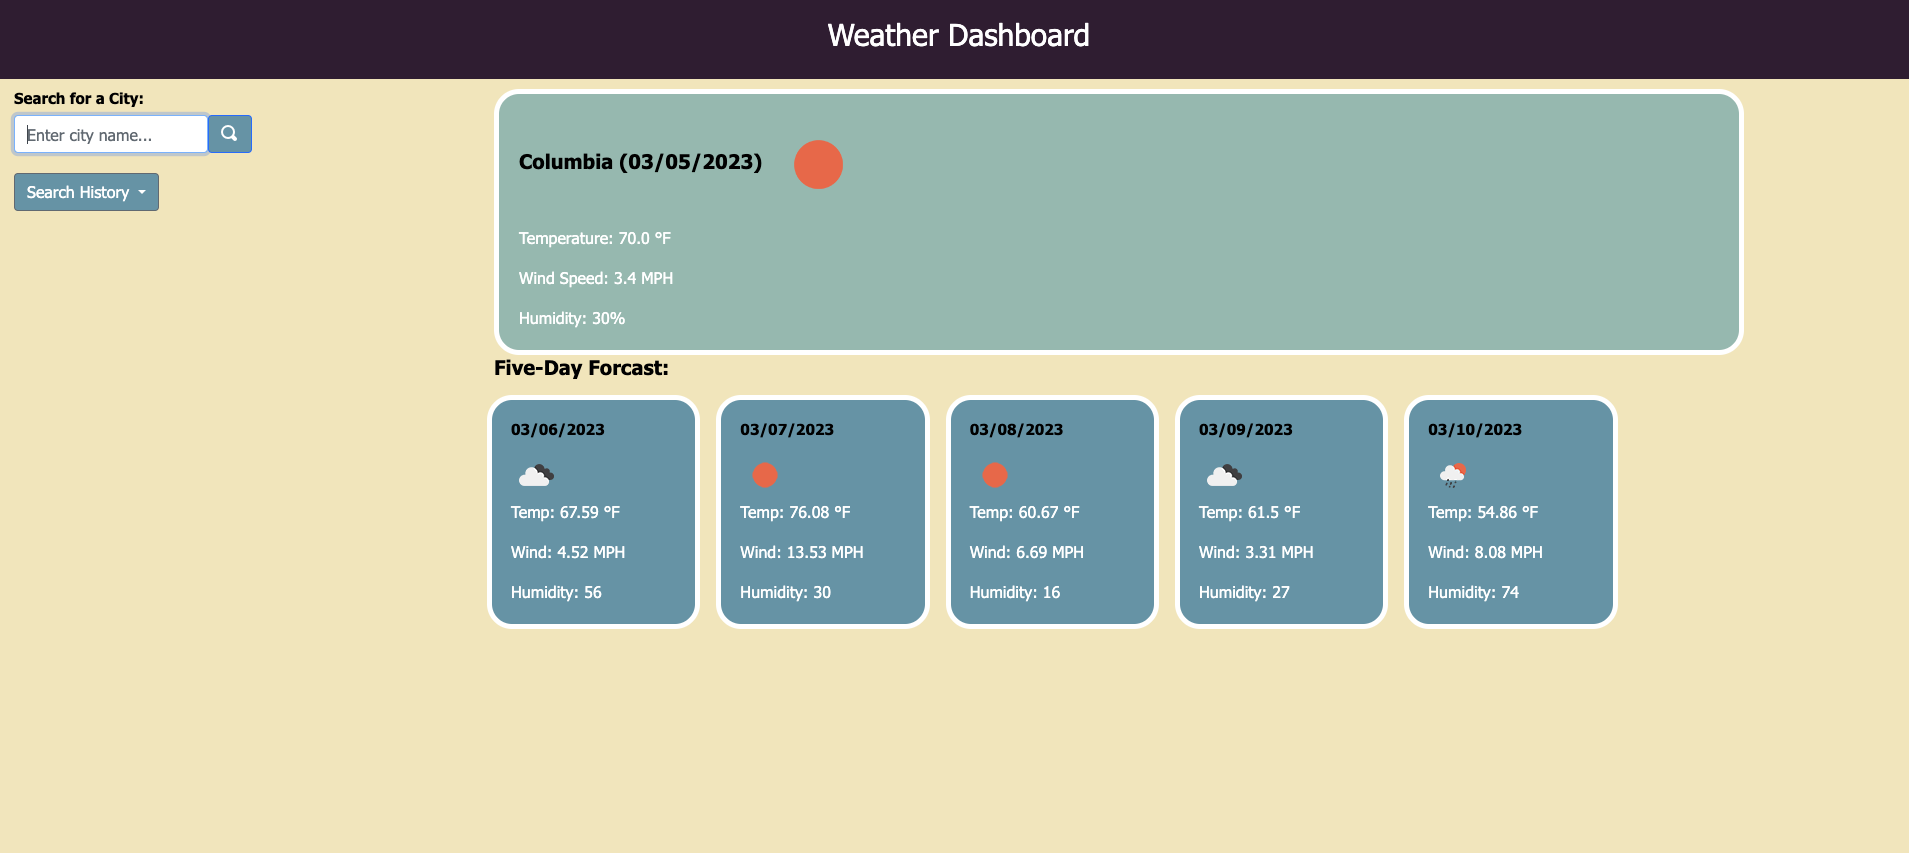
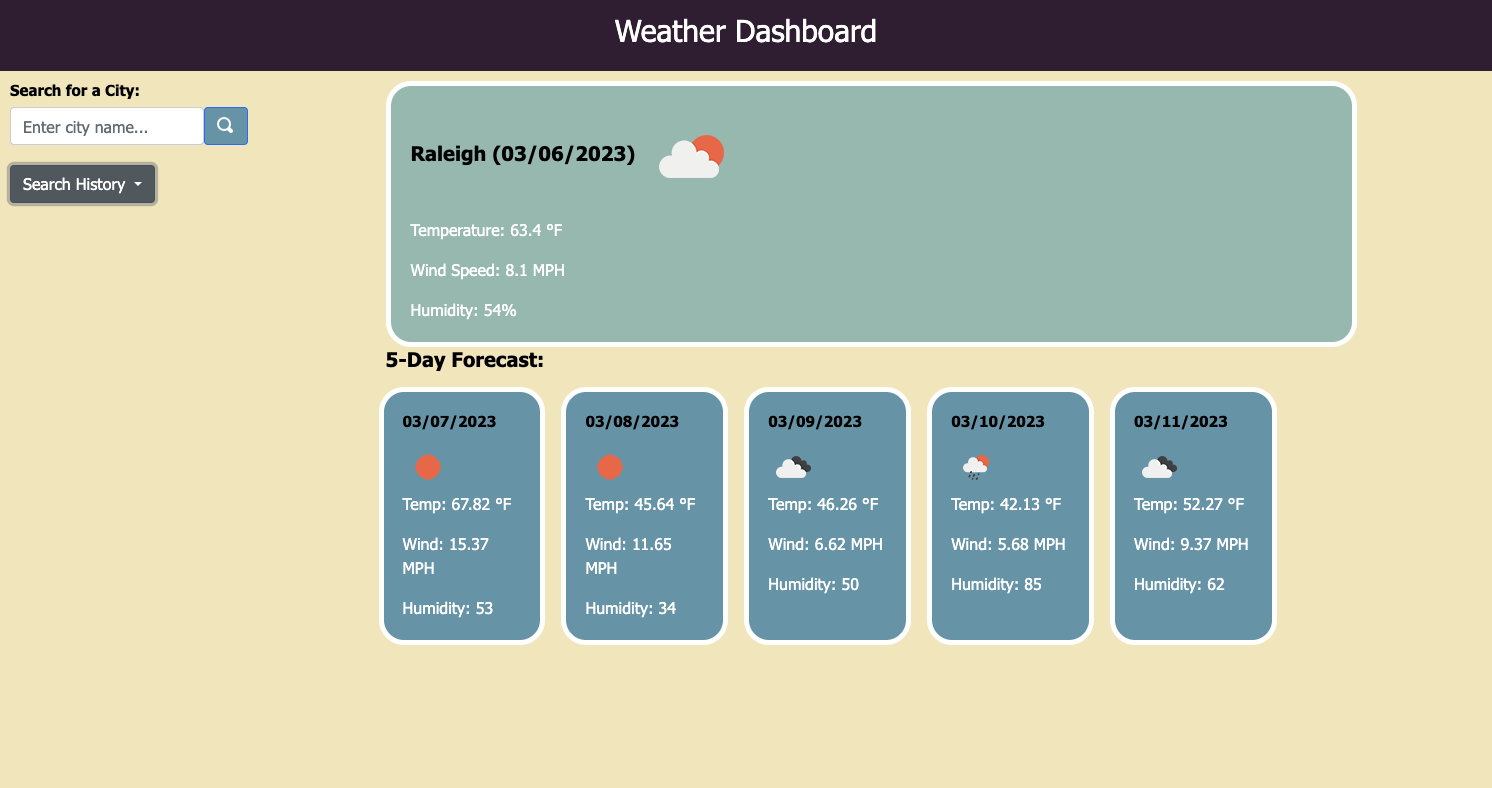
updated '5-day-forecast' h6 title in html; updated mock-up description in README with updated screenshot image for 5-day-forecast

diff --git a/index.html b/index.html
@@ -59,7 +59,7 @@
                     </div>
                 </div>
 
-                <h6>Five-Day Forcast:</h6>
+                <h6>5-Day Forecast:</h6>
                 <div class="card-deck">
 
                 </div>

diff --git a/README.md b/README.md
@@ -19,9 +19,9 @@ This week I was challenged to create a "Weather Dashboard" web application that 
 
 ## Mock-Up
 
-The following image shows the appearance and functionality of the "Weather Dashboard" web application:
+The following image shows the appearance and functionality of the "Weather Dashboard" web application once a user searches for a city to display the current and future weather conditions:
 
-![An image of the web application for the Weather Dashboard.](./assets/images/deployed-page-weather-dashboard.png)
+![An image of the web application for the Weather Dashboard that displays the current and future weather conditions for a particular city.](./assets/images/deployed-page-weather-dashboard.png)
 
 ## Credits
 
